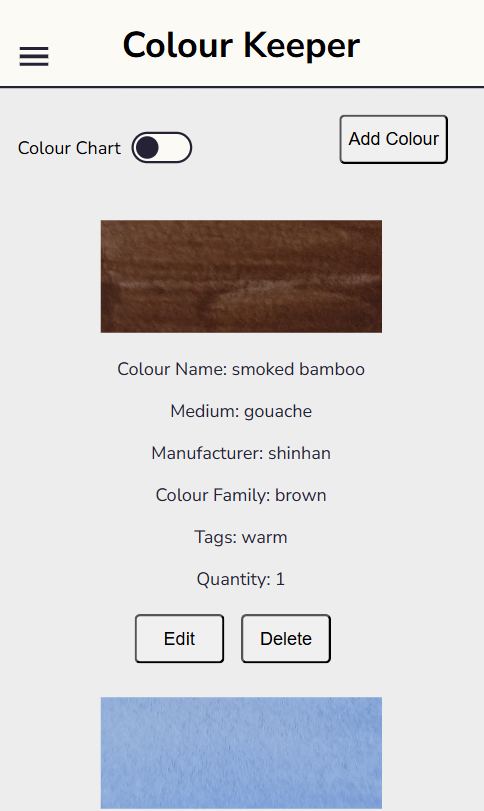
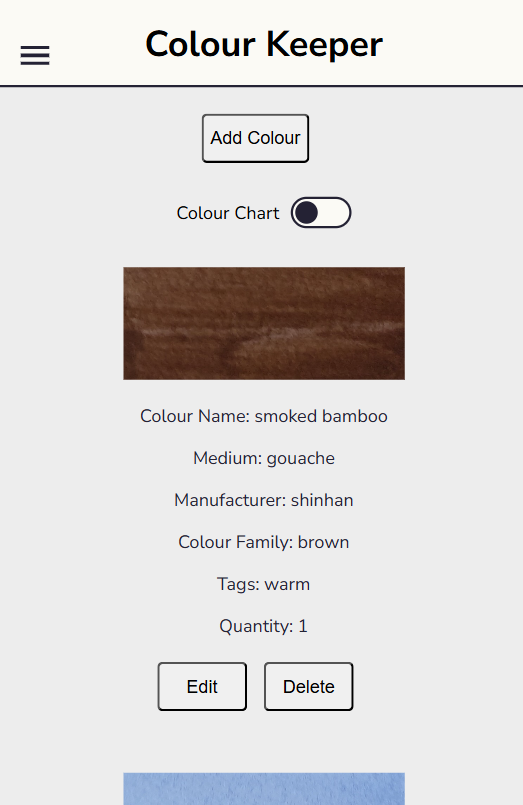
feat: README: edit-color.png

diff --git a/frontend/src/styles/components/header.scss b/frontend/src/styles/components/header.scss
@@ -1,4 +1,5 @@
 @import '../_variables';
+@import '../mixins';
 
 
 // !! adjust styling to keep .navbar above header border  !!

diff --git a/README.md b/README.md
@@ -42,3 +42,5 @@ npm install @supabase/supabase-js
 ![Colours, colour chart](frontend/assets/images/ck-color-chart.png)  
 
 ![Colours, add colour](frontend/assets/images/ck-colours-add-colour.png)  
+
+![Colours, edit colour](frontend/assets/images/ck-edit-color.png)  
